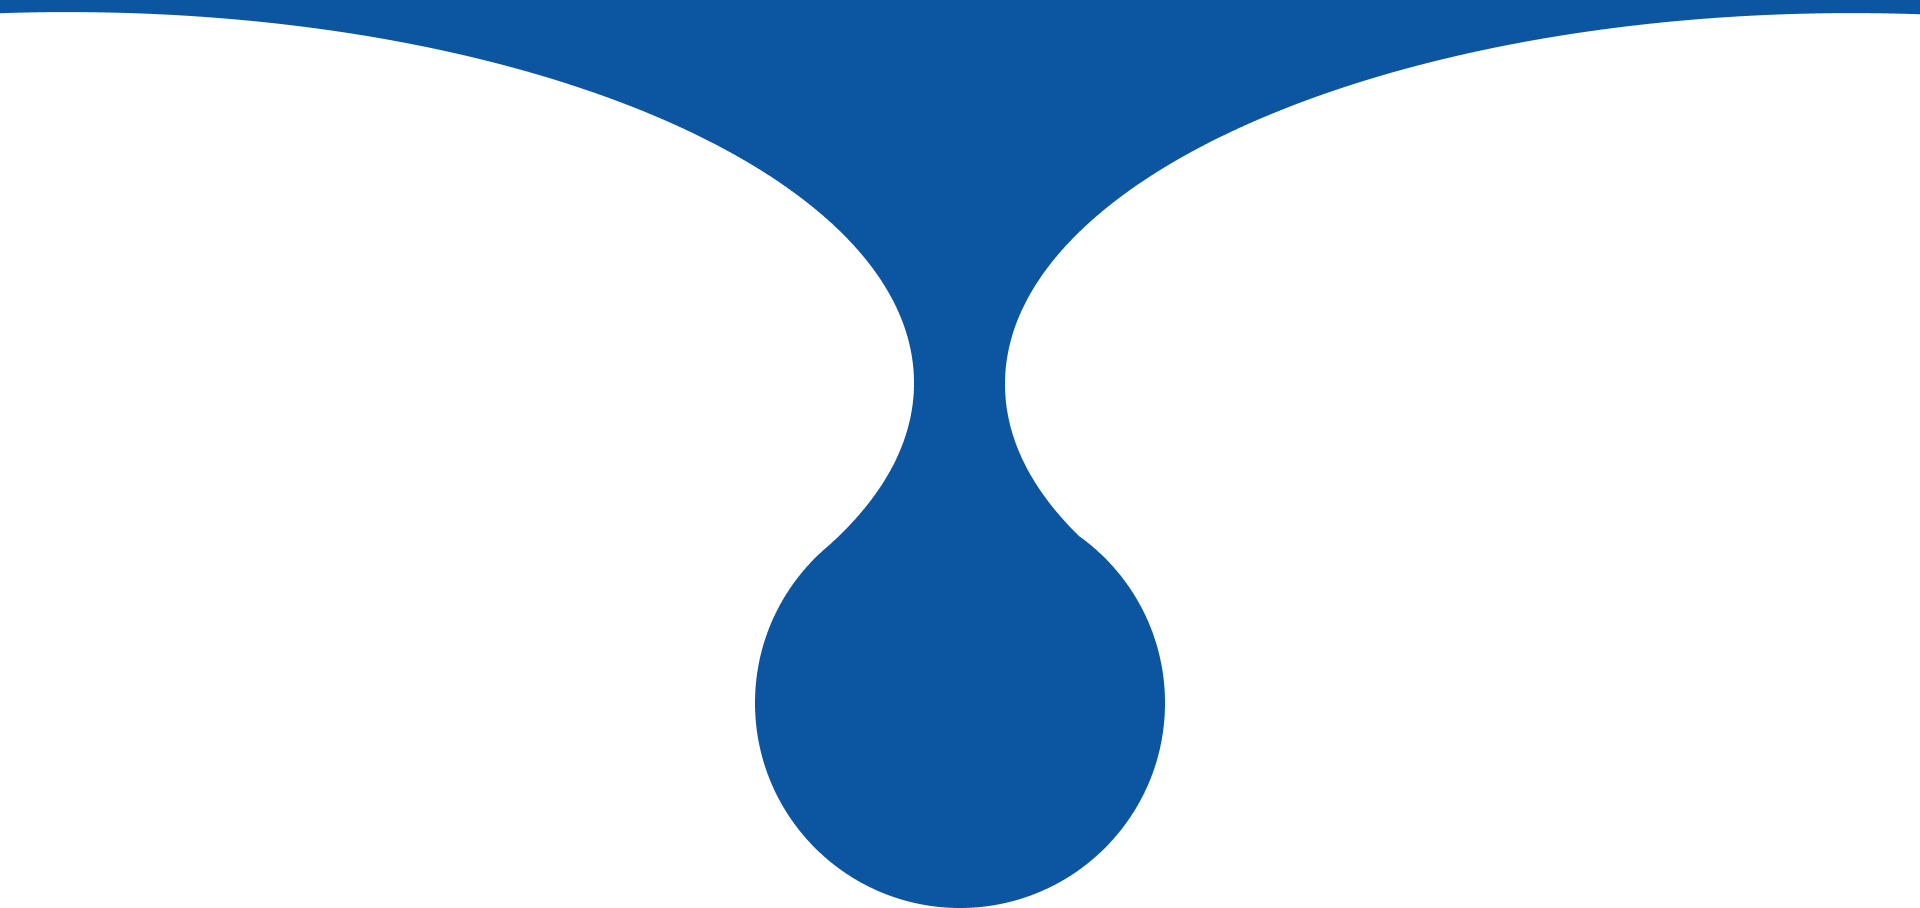
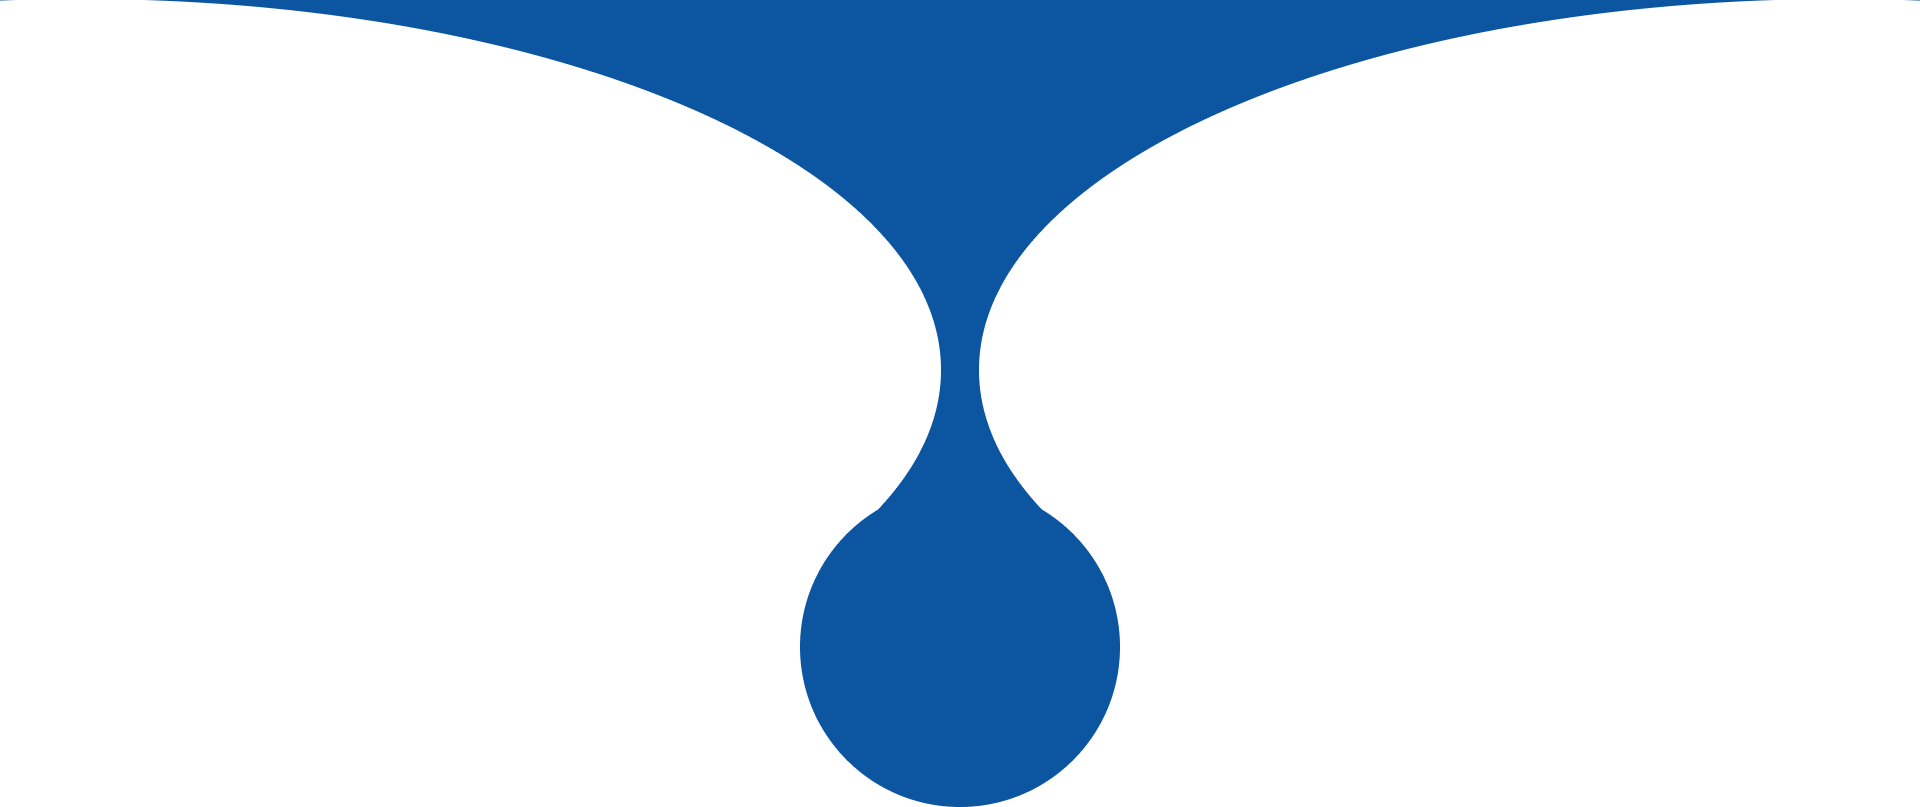
vimal

diff --git a/wp-content/themes/vimal-oil/assets/css/responsive.css b/wp-content/themes/vimal-oil/assets/css/responsive.css
@@ -2151,9 +2151,10 @@
     .nrt-drop-logo {
         min-height: 380px;
         height: 380px;
+        margin-top: -14px;
     }
     .nrt-drop-logo .nrt-d-logo img {
-        max-width: 120px;
+        max-width: 100px;
     }
     .oil-quiz .submit-button.mobile-hide {
         display: none;
@@ -2217,6 +2218,17 @@
         overflow: hidden;
         width: 100%;
         height: 484vh;
+    }
+
+    .pro-sld-main p {
+        font-size: 25px;
+        color: #fff;
+        max-width: 210px;
+        display: inline-block;
+        line-height: 1.4;
+        margin-top: 45px;
+        font-family: 'Raleway', sans-serif;
+        font-weight: 600;
     }
 
 }
@@ -2371,6 +2383,22 @@
     }
     .vimal-journey .gen-sec {
         padding: 0;
+    }
+
+    .nrt-drop-logo {
+        min-height: 380px;
+        height: 380px;
+        margin-top: -30px;
+    }
+    .pro-sld-main p {
+        font-size: 24px;
+        color: #fff;
+        max-width: 210px;
+        display: inline-block;
+        line-height: 1.4;
+        margin-top: 45px;
+        font-family: 'Raleway', sans-serif;
+        font-weight: 600;
     }
 }
 @media screen and (max-width:479px) {
@@ -2544,7 +2572,7 @@
         gap: 15px;
     }
     .jorney-main .nav-pills .nav-link {
-        width: 26%;
+        width: 70%;
     }
     .jorney-main .nav-pills .nav-link:nth-last-child(-n+3) {
         margin-top: 15px;
@@ -2557,6 +2585,16 @@
     }
     .career-form, .awsm-job-form-inner {
         padding: 30px 20px;
+    }
+    .pro-sld-main p {
+        font-size: 20px;
+        color: #fff;
+        max-width: 210px;
+        display: inline-block;
+        line-height: 1.4;
+        margin-top: 45px;
+        font-family: 'Raleway', sans-serif;
+        font-weight: 600;
     }
 }
 @media screen and (max-width:412px) {
@@ -2589,6 +2627,21 @@
         padding: 0;
         gap: 15px;
     }
+    .nrt-drop-logo {
+        min-height: 380px;
+        height: 380px;
+        margin-top: -40px;
+    }
+    .pro-sld-main p {
+        font-size: 20px;
+        color: #fff;
+        max-width: 210px;
+        display: inline-block;
+        line-height: 1.4;
+        margin-top: 45px;
+        font-family: 'Raleway', sans-serif;
+        font-weight: 600;
+    }
 }
 @media screen and (max-width:399px) {
     .nrt-logo {
@@ -2608,6 +2661,21 @@
     .nrt-temp-left img, .nrt-temp-right img {
         width: 100%;
         max-width: 280px;
+    }
+    .nrt-drop-logo {
+        min-height: 380px;
+        height: 380px;
+        margin-top: -40px;
+    }
+    .pro-sld-main p {
+        font-size: 20px;
+        color: #fff;
+        max-width: 210px;
+        display: inline-block;
+        line-height: 1.4;
+        margin-top: 45px;
+        font-family: 'Raleway', sans-serif;
+        font-weight: 600;
     }
 }
 @media screen and (max-width:375px) {
@@ -2632,6 +2700,21 @@
         text-align: center;
         padding: 0;
         gap: 15px;
+    }
+    .nrt-drop-logo {
+        min-height: 380px;
+        height: 380px;
+        margin-top: -40px;
+    }
+    .pro-sld-main p {
+        font-size: 19px;
+        color: #fff;
+        max-width: 210px;
+        display: inline-block;
+        line-height: 1.4;
+        margin-top: 45px;
+        font-family: 'Raleway', sans-serif;
+        font-weight: 600;
     }
 }
 @media screen and (max-width:375px) {
@@ -2665,6 +2748,21 @@
     }
     .vimal-journey .h2-blue {
         font-size: 30px;
+    }
+    .nrt-drop-logo {
+        min-height: 380px;
+        height: 380px;
+        margin-top: -40px;
+    }
+    .pro-sld-main p {
+        font-size: 18px;
+        color: #fff;
+        max-width: 210px;
+        display: inline-block;
+        line-height: 1.4;
+        margin-top: 45px;
+        font-family: 'Raleway', sans-serif;
+        font-weight: 600;
     }
 }
 @media screen and (max-width:359px) {
@@ -2739,5 +2837,20 @@
         text-align: center;
         padding: 0;
         gap: 15px;
+    }
+    .nrt-drop-logo {
+        min-height: 380px;
+        height: 380px;
+        margin-top: -40px;
+    }
+    .pro-sld-main p {
+        font-size: 18px;
+        color: #fff;
+        max-width: 210px;
+        display: inline-block;
+        line-height: 1.4;
+        margin-top: 45px;
+        font-family: 'Raleway', sans-serif;
+        font-weight: 600;
     }
 }

diff --git a/wp-content/themes/vimal-oil/assets/js/custom.js b/wp-content/themes/vimal-oil/assets/js/custom.js
@@ -287,6 +287,59 @@ $(document).ready(function(){
         });
     }
 
+$(document).ready(function(){
+    $('.owl-tabbing-jour ').owlCarousel({
+        loop: false,
+        autoplay: false,
+        responsiveClass: true,
+        nav: true,
+        margin: 10,    
+        autoplayTimeout: 4000,
+        smartSpeed: 400,
+        center: true,
+        
+        responsive: {
+            0: {
+                items: 3,
+                margin: 0, 
+                loop: true,
+                autoplay: false,
+                center: true,
+                autoplayTimeout: 4000,
+                smartSpeed: 400,
+            },
+            480: {
+                items: 3,
+                margin: 0, 
+                loop: true,
+                autoplay: false,
+                center: true,
+                autoplayTimeout: 4000,
+                smartSpeed: 400,
+            },
+            575: {
+                items: 4,
+                margin: 0, 
+                loop: true,
+                autoplay: false,
+                center: true,
+                autoplayTimeout: 4000,
+                smartSpeed: 400,
+            },
+            991: {
+                items: 7,
+                loop: true,
+                autoplay: false,
+                center: true,
+                autoplayTimeout: 4000,
+                smartSpeed: 400,
+            },
+            1200: {
+                items: 7
+            },
+        }
+    });
+})
 
     $(document).ready(function(){
         // Video Play Button

diff --git a/wp-content/themes/vimal-oil/assets/css/style.css b/wp-content/themes/vimal-oil/assets/css/style.css
@@ -1053,13 +1053,13 @@ a:focus{
 }
 
 .nrt-drop-logo {
-	background: url('../images/blue-oil-flow.png');
+	background: url('../images/blue-oil-flow-1.png');
 	background-size: cover;
 	background-position: center top;
 	background-repeat: no-repeat;
-	height: 800px;
-	margin-top: -2px;
-	min-height: 900px;
+	height: 600px;
+	margin-top: -10px;
+	min-height: 700px;
 }
 .nrt-blue-drop .nrt-drop-logo .blue-drop{
 	/* position: absolute; */
@@ -1074,7 +1074,7 @@ a:focus{
 	transform: translateX(-50%);
 }
 .nrt-drop-logo .nrt-d-logo img{
-	max-width: 300px;
+	max-width: 190px;
 }
 .nrt-logo {
     display: block;
@@ -1395,7 +1395,9 @@ a:focus{
 	width: 16.6%;
 }
 .jorney-main .nav .nav-link {
-	width: 15%;
+	width: 80%;
+	display: block;
+	margin: 0 auto;
 }
 .jorney-main {
 	margin-top: 40px;

diff --git a/wp-content/themes/vimal-oil/template/home.php b/wp-content/themes/vimal-oil/template/home.php
@@ -318,28 +318,28 @@
                             </div>
                         </div>
                         <div class="col-lg-12 col-md-12 col-sm-12">
-                            <div class="nav flex-row nav-pills" id="v-pills-tab" role="tablist" aria-orientation="vertical">
-                                <button class="nav-link active" id="v-pills-1993-tab" data-bs-toggle="pill" data-bs-target="#v-pills-1993" type="button" role="tab" aria-controls="v-pills-1993" aria-selected="true">
+                            <div class="nav flex-row nav-pills owl-carousel owl-tabbing-jour owl-theme" id="v-pills-tab" role="tablist" aria-orientation="vertical">
+                                <button class="nav-link active item" id="v-pills-1993-tab" data-bs-toggle="pill" data-bs-target="#v-pills-1993" type="button" role="tab" aria-controls="v-pills-1993" aria-selected="true">
                                     <img src="<?php echo get_template_directory_uri(); ?>/assets/images/1993.png" alt="1993"/>
                                     <span>1993</span>
                                 </button>
-                                <button class="nav-link" id="v-pills-2010-tab" data-bs-toggle="pill" data-bs-target="#v-pills-2010" type="button" role="tab" aria-controls="v-pills-2010" aria-selected="false">
+                                <button class="nav-link item" id="v-pills-2010-tab" data-bs-toggle="pill" data-bs-target="#v-pills-2010" type="button" role="tab" aria-controls="v-pills-2010" aria-selected="false">
                                     <img src="<?php echo get_template_directory_uri(); ?>/assets/images/2010.png" alt="1993"/>
                                     <span>2010</span>
                                 </button>
-                                <button class="nav-link" id="v-pills-2015-tab" data-bs-toggle="pill" data-bs-target="#v-pills-2015" type="button" role="tab" aria-controls="v-pills-2015" aria-selected="false">
+                                <button class="nav-link item" id="v-pills-2015-tab" data-bs-toggle="pill" data-bs-target="#v-pills-2015" type="button" role="tab" aria-controls="v-pills-2015" aria-selected="false">
                                     <img src="<?php echo get_template_directory_uri(); ?>/assets/images/2015.png" alt="1993"/>
                                     <span>2015</span>
                                 </button>
-                                <button class="nav-link" id="v-pills-2018-tab" data-bs-toggle="pill" data-bs-target="#v-pills-2018" type="button" role="tab" aria-controls="v-pills-2018" aria-selected="false">
+                                <button class="nav-link item" id="v-pills-2018-tab" data-bs-toggle="pill" data-bs-target="#v-pills-2018" type="button" role="tab" aria-controls="v-pills-2018" aria-selected="false">
                                     <img src="<?php echo get_template_directory_uri(); ?>/assets/images/2010.png" alt="1993"/>
                                     <span>2018</span>
                                 </button>
-                                <button class="nav-link" id="v-pills-2018-tab" data-bs-toggle="pill" data-bs-target="#v-pills-2020" type="button" role="tab" aria-controls="v-pills-2020" aria-selected="false">
+                                <button class="nav-link item" id="v-pills-2018-tab" data-bs-toggle="pill" data-bs-target="#v-pills-2020" type="button" role="tab" aria-controls="v-pills-2020" aria-selected="false">
                                     <img src="<?php echo get_template_directory_uri(); ?>/assets/images/2015.png" alt="1993"/>
                                     <span>2020</span>
                                 </button>
-                                <button class="nav-link" id="v-pills-2022-tab" data-bs-toggle="pill" data-bs-target="#v-pills-2022" type="button" role="tab" aria-controls="v-pills-2022" aria-selected="false">
+                                <button class="nav-link item" id="v-pills-2022-tab" data-bs-toggle="pill" data-bs-target="#v-pills-2022" type="button" role="tab" aria-controls="v-pills-2022" aria-selected="false">
                                     <img src="<?php echo get_template_directory_uri(); ?>/assets/images/2015.png" alt="1993"/>
                                     <span>2022</span>
                                 </button>
